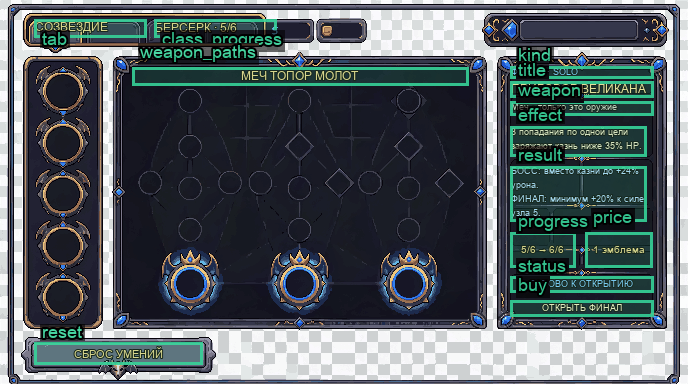
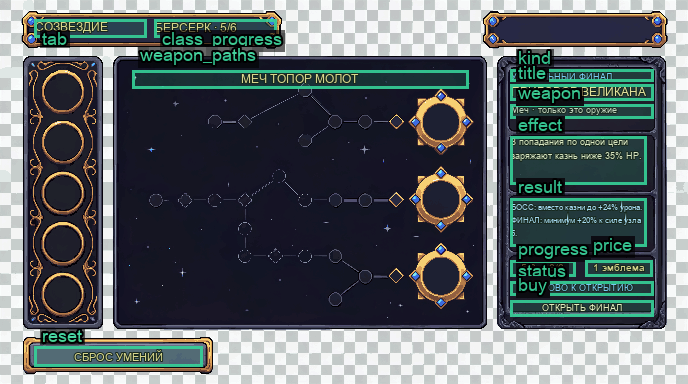
fix(atlas): remove baked glyph and restore final callout

diff --git a/docs/design/mockups/scrum1090_atlas_upgrade_descriptions/spec.md b/docs/design/mockups/scrum1090_atlas_upgrade_descriptions/spec.md
@@ -1,12 +1,13 @@
 # SCRUM-1090 — Atlas detailed upgrade dossier UI Director spec
 
-Status: `ready_for_independent_qa`
+Status: `ready_for_independent_re_qa`
 Role owner: Design
 Jira: SCRUM-1090
 Base reference: 688×384 PixelLab source; runtime geometry remains the accepted
 1920×1080 SCRUM-1075 Atlas contract.
 Responsive targets: 1280×720, 1920×1080, 2560×1440 and same-instance resize.
-PixelLab source ID: `b6693906-f259-4b43-a1b5-4283ff88bec3`.
+PixelLab source ID: `cccfc9a1-e067-4507-a178-9dd6d54bfce4` (SCRUM-1092
+glyph-free replacement).
 
 Source PNG:
 `../../references/scrum1090_atlas_upgrade_descriptions/pixellab_atlas_detailed_dossier_688x384.png`.
@@ -44,13 +45,14 @@ preceding node. Flavor text never substitutes for numbers.
 
 | Zone | Rect | Purpose |
 | --- | --- | --- |
-| role/axis | `510,66,143,12` | final/ordinary role and solo/AoE/crowd/defense axis |
-| title | `510,81,143,16` | selected node title |
-| owning weapon | `510,101,143,14` | weapon title + scope |
-| effect viewport | `510,124,143,98` | two calm generated compartments inside the runtime scroll contract |
-| path progress | `510,232,65,35` | `5/6 → 6/6` or selected rank |
-| price | `585,232,67,35` | exact currency and cost |
-| state | `510,276,143,16` | availability/purchased/locked state |
+| exact final callout | `510,69,143,12` | compositor-only `УНИКАЛЬНЫЙ ФИНАЛ` |
+| title | `510,84,143,16` | selected node title |
+| owning weapon | `510,104,143,14` | weapon title + scope |
+| effect | `510,136,143,48` | exact trigger in the second empty compartment |
+| result | `510,198,143,48` | boss/final floor in the third empty compartment |
+| path progress | `510,260,65,16` | `5/6 → 6/6` or selected rank |
+| price | `585,260,67,16` | exact currency and cost |
+| state | `510,281,143,14` | availability/purchased/locked state |
 | action | `510,300,143,16` | purchase action; stable rect in all states |
 
 The dossier frame is `497,56,169,269`; all content has at least 12 px lateral
@@ -110,3 +112,24 @@ outside the scroll viewport, preserving pointer/gamepad reachability.
   2560×1440. Runtime remains governed by the accepted SCRUM-1075 geometry.
 - Back-end handoff: SCRUM-1091, intentionally blocked until this Design result
   passes independent QA and SCRUM-1088/SCRUM-1089 release overlapping locks.
+
+## SCRUM-1092 rework result
+
+- Rejected source `b6693906-f259-4b43-a1b5-4283ff88bec3` / SHA
[1 lines of base64/hex data omitted]
+  is superseded because it baked a `$` glyph into the header.
+- Replacement PixelLab MCP source
+  `cccfc9a1-e067-4507-a178-9dd6d54bfce4` / SHA
[1 lines of base64/hex data omitted]
+  contains no text, numbers, currency marks, semantic icons, runes or
+  pseudo-writing. The original-size audit is recorded beside the source in
+  `glyph_audit.json`.
+- The required visible callout is compositor-owned and exactly
+  `УНИКАЛЬНЫЙ ФИНАЛ`; the base contains no baked replacement or abbreviation.
+- Updated planning gate: `ready_for_image`, 20 elements, 0 errors, 0 warnings.
+- Updated compositor: 13/13 zones PASS; the exact callout fits at 9 px in
+  `Rect2(510,69,143,12)` without touching ornament.
+- Updated responsive evidence: 3/3 PASS at 1280×720, 1920×1080 and
+  2560×1440; exact callout sizes are 17/25/33 px respectively.
+- Runtime/data/assets remain unchanged; SCRUM-1091 stays blocked pending re-QA
+  and release of SCRUM-1088/SCRUM-1089 locks.

diff --git a/docs/tasks/SCRUM-1092.md b/docs/tasks/SCRUM-1092.md
@@ -1,6 +1,6 @@
 # SCRUM-1092 — Atlas mockup: отсутствует «УНИКАЛЬНЫЙ ФИНАЛ» и запечён символ $
 
-Статус: new
+Статус: done
 Тип: bug
 Приоритет: normal
 Версия: 0.2.1
@@ -8,6 +8,15 @@ Jira: SCRUM-1092
 Контур: Codex
 Роль: Design
 Найдено QA при тестировании: SCRUM-1090
+Owner: Design/current Codex rework
+Thread/Worker: current user-facing Codex task
+Branch: `codex/scrum-1092-atlas-final-callout`
+Worktree: `/Users/sergeyfomin/Documents/FantasyDisk_worktrees/SCRUM-1092`
+Locked paths: `docs/design/{mockups,references,previews}/scrum1090_atlas_upgrade_descriptions/`,
+`docs/tasks/SCRUM-1090.md`, `docs/tasks/SCRUM-1092.md`
+
+Runtime/data scope is explicitly excluded. SCRUM-1088/SCRUM-1089 files and
+locks are not touched.
 
 ## Воспроизведение
 
@@ -45,3 +54,26 @@ no-text prompt.
[1 lines of base64/hex data omitted]
 - independent gates: planning 19/19; compositor 13/13; responsive 3/3;
 - linked Jira Bug SCRUM-1092 blocks SCRUM-1090.
+
+## Result
+
+- Новый PixelLab MCP source:
+  `cccfc9a1-e067-4507-a178-9dd6d54bfce4`, 688×384 RGBA, SHA-256
[1 lines of base64/hex data omitted]
+- Старый source `b6693906-f259-4b43-a1b5-4283ff88bec3` явно записан в
+  provenance как rejected/superseded из-за запечённого `$`.
+- Новый base просмотрен в original size: текст, цифры, валютные glyphs,
+  semantic icons, руны и pseudo-writing отсутствуют; defect-region header
+  пуст. Audit: `docs/design/references/scrum1090_atlas_upgrade_descriptions/glyph_audit.json`.
+- Видимая compositor-callout теперь ровно `УНИКАЛЬНЫЙ ФИНАЛ`; она не запечена
+  в base и помещается в `Rect2(510,69,143,12)`.
+- Planning gate: `ready_for_image`, 20 элементов, 0 errors, 0 warnings.
+- Compositor: 13/13 zones PASS; responsive: 3/3 PASS на 1280×720,
+  1920×1080, 2560×1440; debug visual обновлён.
+- Runtime/data/assets SCRUM-1088/SCRUM-1089 не менялись. SCRUM-1091 остаётся
+  blocked до независимого re-QA и освобождения overlapping Back-end locks.
+
+Disk cleanup: task не создавал `.godot`, user-data или build caches; isolated
+worktree/branch удаляются сразу после push и Jira sync.
+
+Thread cleanup: not a disposable worker thread.

diff --git a/docs/tasks/SCRUM-1090.md b/docs/tasks/SCRUM-1090.md
@@ -1,6 +1,6 @@
 # SCRUM-1090 — Atlas detailed upgrade descriptions UI mockup
 
-Статус: new
+Статус: done
 Версия: 0.2.1
 Jira: SCRUM-1090
 Контур: Codex
@@ -93,3 +93,19 @@ Thread cleanup: not a disposable worker thread.
 
 Linked blocking Bug: SCRUM-1092. Исправления дизайна/runtime QA не выполнял;
 SCRUM-1090 возвращён в Jira `К выполнению` до fix + re-QA.
+
+## Design rework result — SCRUM-1092 (2026-07-12)
+
+- PixelLab base полностью перегенерирован через MCP: новый source
+  `cccfc9a1-e067-4507-a178-9dd6d54bfce4`, SHA-256
[1 lines of base64/hex data omitted]
+- Base больше не содержит `$`, другого текста, цифр, валютных/semantic glyphs,
+  рун или pseudo-writing. Original-size audit сохранён в
+  `docs/design/references/scrum1090_atlas_upgrade_descriptions/glyph_audit.json`.
+- Обязательная видимая callout теперь compositor-owned и записана точно как
+  `УНИКАЛЬНЫЙ ФИНАЛ`; сокращение `ФИНАЛ · SOLO` удалено из plan/layout.
+- Повторные gates: planning 20 элементов / 0 errors / 0 warnings; compositor
+  13/13 PASS; responsive 3/3 PASS; debug visual подтверждает content-only
+  placement внутри пустых секций dossier.
+- Runtime/data/assets не менялись. Linked SCRUM-1092 готов к независимому re-QA;
+  SCRUM-1091 остаётся blocked.
